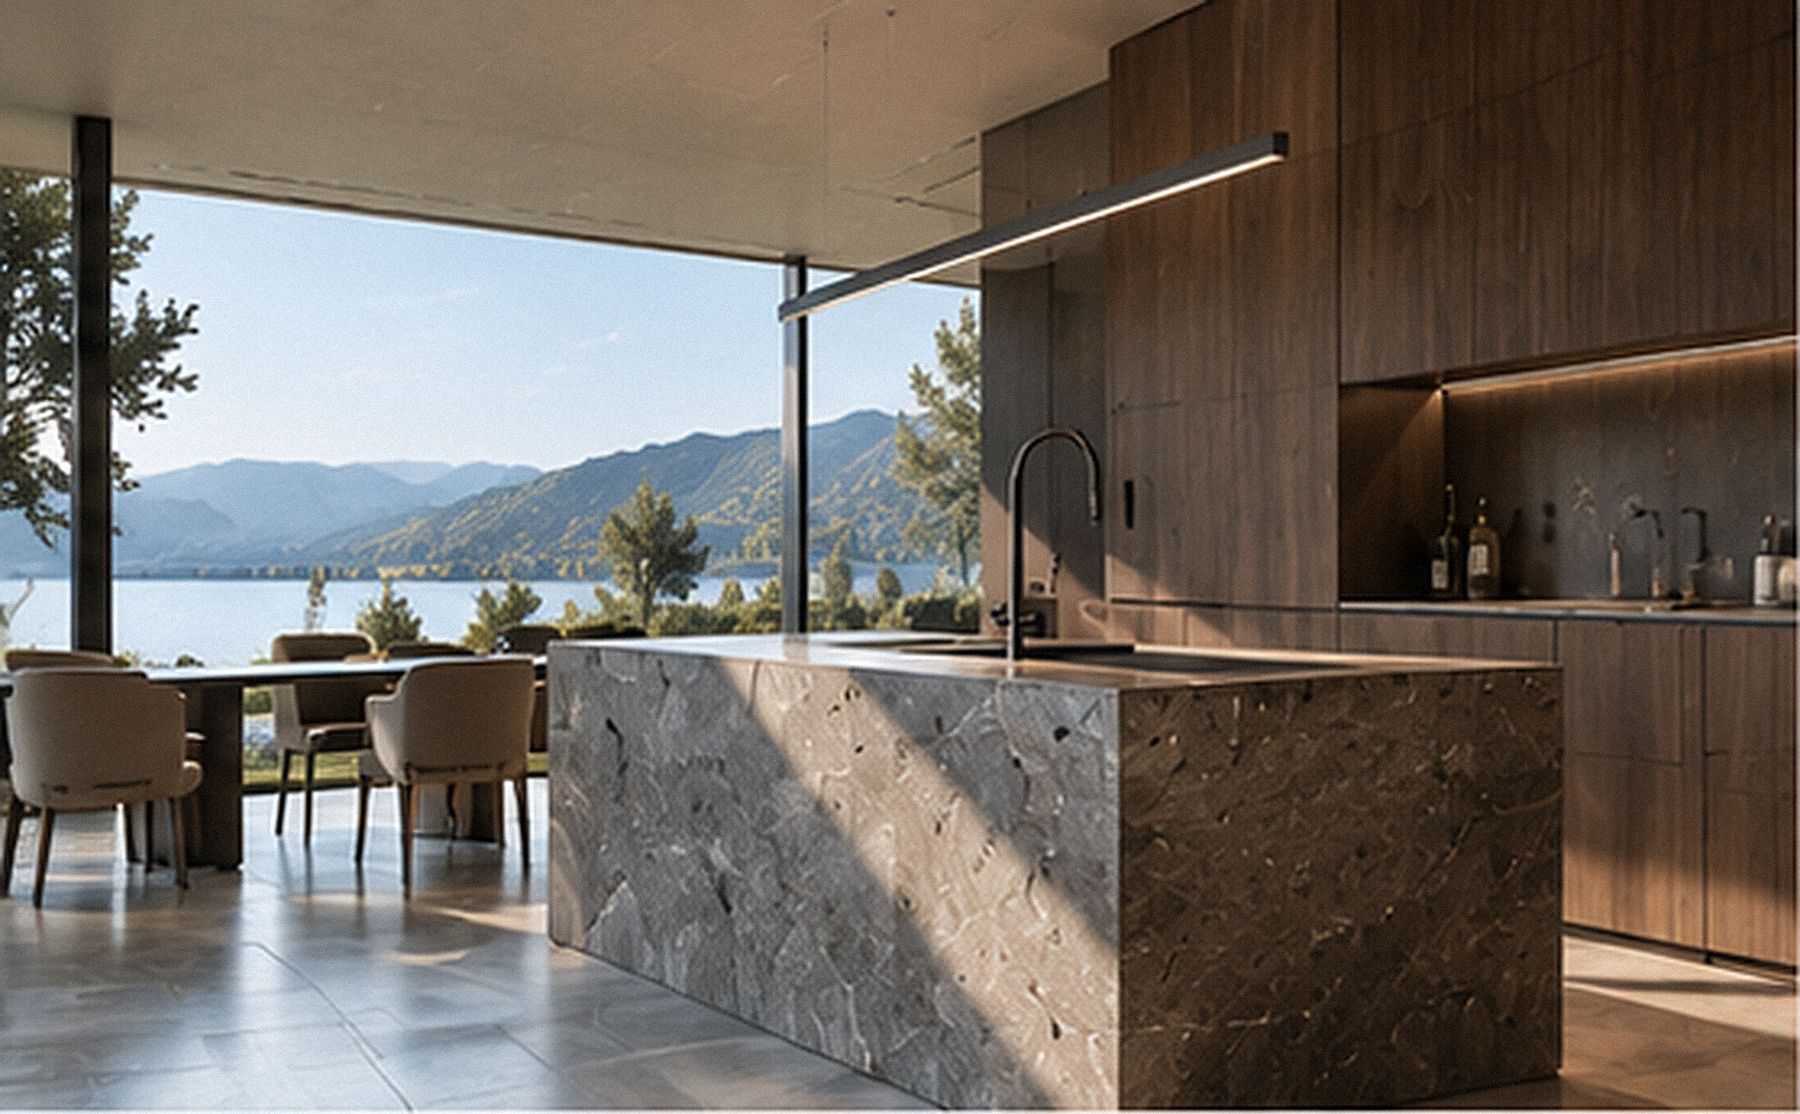
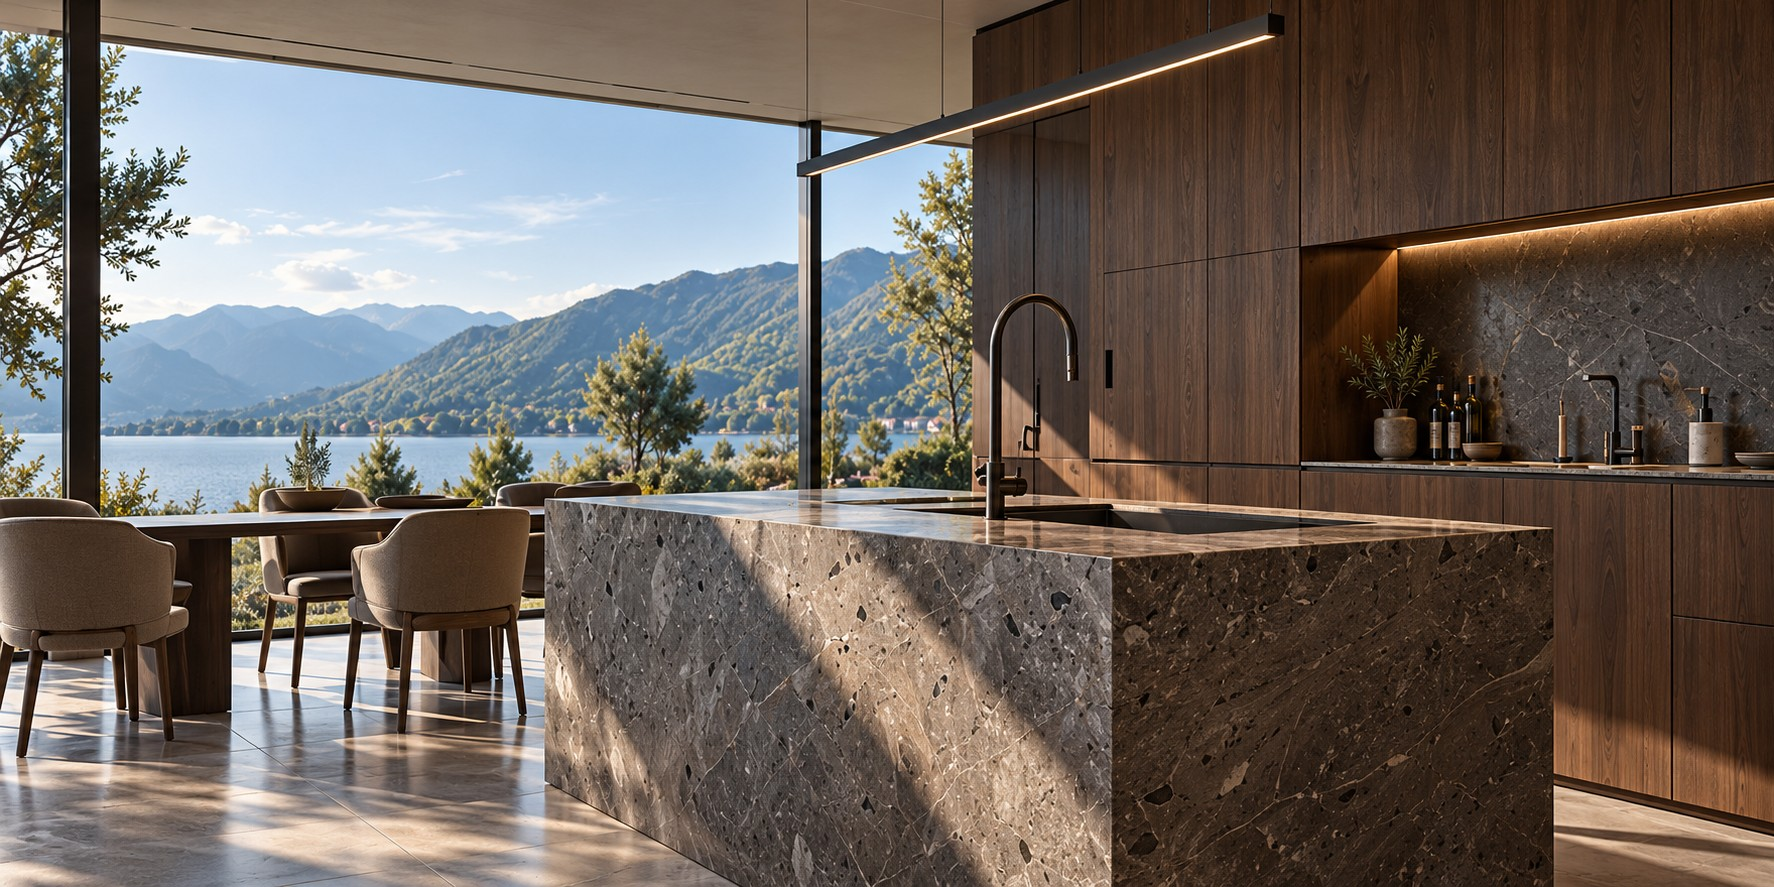
v5: new hero render, references Bellikon (villa) and Arosa (chalet), four projects on the homepage
Claude-Session: https://claude.ai/code/session_01K8soahvFYkw6QoZUie9XcJ

diff --git a/src/content/site.ts b/src/content/site.ts
@@ -67,7 +67,7 @@ export const images: Record<string, ImageAsset> = Object.fromEntries(
   [
     /* Hero and atmosphere */
     img("showroom-axo", { status: "CONCEPT_IMAGE", src: "/images/showroom-axo.jpg", w: 1774, h: 887, surface: "cocoa", alt: { de: "Axonometrie des SARTO Showrooms: Eingang, Project Lounge, Ankleide, zwei Küchen, Innenhof", en: "Axonometric view of the SARTO showroom: entrance, project lounge, dressing room, two kitchens, courtyard" }, brief: "Showroom visual based on the POSTARCH plan. Labelled as visual." }),
-    concept("hero-kitchen", 1800, 1114, "walnut-dark", "Küche aus dunklem Nussbaum mit Natursteininsel, Blick auf See und Berge", "Dark walnut kitchen with a natural stone island, view across lake and mountains"),
+    concept("hero-kitchen", 1774, 887, "walnut-dark", "Küche aus dunklem Nussbaum mit Natursteininsel, Blick auf See und Berge", "Dark walnut kitchen with a natural stone island, view across lake and mountains", "Hero render (GH, 19.10.2026). Labelled as visual until the first finished SARTO space is photographed."),
     concept("kitchen-light", 1500, 778, "walnut", "Küche mit Steininsel und Nussbaumfronten im Tageslicht", "Kitchen with stone island and walnut fronts in daylight"),
     concept("wardrobe", 1400, 1155, "cocoa", "Begehbare Ankleide aus Nussbaum mit beleuchteten Fächern und Insel", "Walk-in walnut dressing room with lit compartments and island"),
     concept("wardrobe-alt", 1300, 866, "cocoa", "Ankleide mit offenen Regalen und Mittelinsel", "Dressing room with open shelving and central island"),
@@ -121,6 +121,29 @@ export const images: Record<string, ImageAsset> = Object.fromEntries(
     real("grenchen-16", 1600, 1066, "stone-light", "Grenchen: Bad mit Wanne und Waschtisch", "Grenchen: bathroom with bath and vanity"),
     real("grenchen-12", 1600, 1066, "ivory", "Grenchen: Treppe in der Wohnung", "Grenchen: staircase within the apartment"),
 
+    /* Reference: Bellikon AG (villa) */
+    real("bellikon-kitchen", 1600, 1239, "stone-light", "Bellikon: Küche in Schwarz mit heller Steininsel", "Bellikon: black kitchen with light stone island"),
+    real("bellikon-wine", 1600, 1095, "walnut-dark", "Bellikon: Weinkeller mit Flaschenwand aus Schwarzstahl", "Bellikon: wine cellar with blackened-steel bottle wall"),
+    real("bellikon-glass", 1600, 1204, "walnut", "Bellikon: Ankleide mit Glastüren und beleuchteten Fächern", "Bellikon: dressing room with glass doors and lit compartments"),
+    real("bellikon-hall", 1204, 1600, "stone-light", "Bellikon: Korridor mit raumhohen Türen in dunklem Holz", "Bellikon: corridor with full-height doors in dark wood"),
+    real("bellikon-vanity", 1600, 1209, "stone-light", "Bellikon: Doppelwaschtisch mit Spiegelwand", "Bellikon: double vanity with mirror wall"),
+    real("bellikon-shelves", 1600, 1570, "stone-light", "Bellikon: beleuchtetes Regal im Eingang", "Bellikon: lit shelving in the entrance"),
+    real("bellikon-living", 1600, 973, "ivory", "Bellikon: Wohnraum mit Bibliothekswand", "Bellikon: living room with library wall"),
+    real("bellikon-gallery", 1600, 1067, "ivory", "Bellikon: Galerie im Korridor mit flächenbündigen Türen", "Bellikon: gallery corridor with flush doors"),
+    real("bellikon-entrance", 1600, 1207, "stone-light", "Bellikon: Eingang mit Spiegel und Garderobe", "Bellikon: entrance with mirror and wardrobe"),
+    real("bellikon-dusk", 1600, 1231, "stone", "Bellikon: die Villa am Abend", "Bellikon: the villa at dusk"),
+
+    /* Reference: Arosa GR (chalet apartment) */
+    real("arosa-kitchen", 1280, 999, "ivory", "Arosa: Küche mit Steinabdeckung und Weinkühlschrank", "Arosa: kitchen with stone worktop and wine fridge"),
+    real("arosa-wardrobe", 1280, 891, "ivory", "Arosa: begehbare Ankleide mit beleuchteten Fächern", "Arosa: walk-in dressing room with lit compartments"),
+    real("arosa-door", 1280, 876, "ivory", "Arosa: Eingang mit Türrahmen aus Altholz", "Arosa: entrance with reclaimed-wood door frame"),
+    real("arosa-bedroom", 1280, 853, "ivory", "Arosa: Schlafzimmer mit Schrankwand und Bettnischen", "Arosa: bedroom with wardrobe wall and bed niches"),
+    real("arosa-bath", 1280, 964, "stone-light", "Arosa: Bad mit freistehender Wanne unter dem Dach", "Arosa: bathroom with freestanding bath under the roof"),
+    real("arosa-vanity", 853, 1280, "stone-light", "Arosa: Waschtischmöbel und Dusche", "Arosa: vanity unit and shower"),
+    real("arosa-living", 1280, 853, "ivory", "Arosa: Wohnraum mit Kamin und Esstisch", "Arosa: living room with fireplace and dining table"),
+    real("arosa-balcony", 1280, 853, "ivory", "Arosa: Sitznische am Fenster mit Blick auf die Berge", "Arosa: window seat with mountain view"),
+    real("arosa-house", 1280, 964, "stone", "Arosa: das Haus im Winter", "Arosa: the house in winter"),
+
     /* Group projects (smzh Real Estate Advisory). Remote, credited. */
     img("group-kuesnacht-hide", { status: "REAL", src: "https://cms.smzh.ch/uploads/kusnacht_hide_6_978f160c20.jpg", w: 1600, h: 1067, surface: "stone-light", alt: { de: "Küsnacht ZH, HIDE: Schlafzimmer mit Terrasse", en: "Küsnacht ZH, HIDE: bedroom with terrace" }, credit: GROUP_CREDIT, brief: "Private residence example. Group project; not an executed SARTO interior." }),
     img("group-killwangen", { status: "REAL", src: "https://cms.smzh.ch/uploads/Aussenansicht_der_fertigen_Ueberbauung_36773d3b2e.jpg", w: 1600, h: 1067, surface: "stone", alt: { de: "Killwangen AG: zwei Mehrfamilienhäuser", en: "Killwangen AG: two apartment buildings" }, credit: GROUP_CREDIT, brief: "Residential development example. Group project." }),
@@ -143,6 +166,78 @@ export const images: Record<string, ImageAsset> = Object.fromEntries(
  * Never invent a client name.
  */
 export const projects: Project[] = [
+  {
+    id: "bellikon",
+    slug: { de: "bellikon", en: "bellikon" },
+    verification: "pending",
+    title: { de: "Bellikon", en: "Bellikon" },
+    category: "interiors",
+    type: { de: "Villa", en: "Private villa" },
+    location: { de: "Aargau", en: "Aargau" },
+    image: "bellikon-kitchen",
+    gallery: ["bellikon-kitchen", "bellikon-wine", "bellikon-glass", "bellikon-hall", "bellikon-vanity", "bellikon-shelves", "bellikon-living", "bellikon-gallery", "bellikon-entrance", "bellikon-dusk"],
+    teaser: { de: "Küche, Weinkeller, Ankleide mit Glastüren, raumhohe Türen und Bibliothekswand in einer Villa.", en: "Kitchen, wine cellar, glass-door dressing room, full-height doors and library wall in a private villa." },
+    intro: {
+      de: [
+        "In Bellikon wurde eine Villa durchgehend ausgebaut: schwarze Küche mit heller Steininsel, Weinkeller mit Flaschenwand aus Schwarzstahl, Ankleide hinter Glastüren mit beleuchteten Fächern.",
+        "Raumhohe Türen in dunklem Holz laufen mit den Wandflächen in einer Flucht. Im Wohnraum eine Bibliothekswand, im Bad ein Doppelwaschtisch vor der Spiegelwand, im Eingang Garderobe und beleuchtetes Regal.",
+      ],
+      en: [
+        "In Bellikon a private villa was fitted out throughout: a black kitchen with a light stone island, a wine cellar with a blackened-steel bottle wall, a dressing room behind glass doors with lit compartments.",
+        "Full-height doors in dark wood run flush with the wall surfaces. A library wall in the living room, a double vanity in front of the mirror wall, a wardrobe and lit shelving in the entrance.",
+      ],
+    },
+    facts: {
+      de: [
+        { label: "Leistungen", value: "Küche, Weinkeller, Ankleide, Türen, Einbauten, Badmöbel" },
+        { label: "Objekt", value: "Villa" },
+        { label: "Fertigung", value: "Limani" },
+        { label: "Jahr", value: "TO_VERIFY" },
+      ],
+      en: [
+        { label: "Scope", value: "Kitchen, wine cellar, dressing room, doors, built-ins, bathroom furniture" },
+        { label: "Building", value: "Private villa" },
+        { label: "Manufacturing", value: "Limani" },
+        { label: "Year", value: "TO_VERIFY" },
+      ],
+    },
+  },
+  {
+    id: "arosa",
+    slug: { de: "arosa", en: "arosa" },
+    verification: "pending",
+    title: { de: "Arosa", en: "Arosa" },
+    category: "wardrobes",
+    type: { de: "Chalet-Wohnung", en: "Chalet apartment" },
+    location: { de: "Graubünden", en: "Graubünden" },
+    image: "arosa-wardrobe",
+    gallery: ["arosa-wardrobe", "arosa-kitchen", "arosa-door", "arosa-bedroom", "arosa-bath", "arosa-vanity", "arosa-living", "arosa-balcony", "arosa-house"],
+    teaser: { de: "Begehbare Ankleide, Küche, Schrankwände und Badmöbel in einer Dachwohnung mit Altholz.", en: "Walk-in dressing room, kitchen, wardrobe walls and bathroom furniture in an attic apartment with reclaimed wood." },
+    intro: {
+      de: [
+        "Unter dem Dach eines Chalets in Arosa wurden Ankleide, Küche, Schlafzimmer und Bäder auf Mass ausgebaut. Altholz am Eingang, helles Holz an den Einbauten, Stein in Küche und Bad.",
+        "Die begehbare Ankleide arbeitet mit beleuchteten Fächern und offener Kleiderstange. Im Schlafzimmer fasst eine Schrankwand die Betten; unter der Schräge sitzt die freistehende Wanne.",
+      ],
+      en: [
+        "Under the roof of a chalet in Arosa, dressing room, kitchen, bedrooms and bathrooms were fitted out to measure. Reclaimed wood at the entrance, light wood on the built-ins, stone in kitchen and bath.",
+        "The walk-in dressing room works with lit compartments and an open rail. In the bedroom a wardrobe wall frames the beds; the freestanding bath sits under the slope.",
+      ],
+    },
+    facts: {
+      de: [
+        { label: "Leistungen", value: "Ankleide, Küche, Schrankwände, Türen, Badmöbel" },
+        { label: "Objekt", value: "Chalet-Wohnung" },
+        { label: "Fertigung", value: "Limani" },
+        { label: "Jahr", value: "TO_VERIFY" },
+      ],
+      en: [
+        { label: "Scope", value: "Dressing room, kitchen, wardrobe walls, doors, bathroom furniture" },
+        { label: "Building", value: "Chalet apartment" },
+        { label: "Manufacturing", value: "Limani" },
+        { label: "Year", value: "TO_VERIFY" },
+      ],
+    },
+  },
   {
     id: "obermumpf",
     slug: { de: "obermumpf", en: "obermumpf" },

diff --git a/src/components/sections/Shared.tsx b/src/components/sections/Shared.tsx
@@ -127,8 +127,9 @@ export function ProjectCards({ locale, limit, items }: { locale: Locale; limit?:
   return (
     <ul className="grid gap-x-8 gap-y-14 md:grid-cols-12">
       {list.map((p, i) => {
-        const wide = i % 3 === 0;
-        const col = wide ? "md:col-span-7" : i % 3 === 1 ? "md:col-span-5 md:pt-24" : "md:col-span-6 md:col-start-4";
+        const k = i % 4;
+        const wide = k === 0;
+        const col = k === 0 ? "md:col-span-7" : k === 1 ? "md:col-span-5 md:pt-24" : k === 2 ? "md:col-span-5 md:col-start-2" : "md:col-span-6 md:col-start-7 md:pt-24";
         return (
           <Reveal as="li" key={p.id} delay={i * 80} className={col}>
             <article>

diff --git a/src/content/de.ts b/src/content/de.ts
@@ -141,7 +141,7 @@ export const de: Dictionary = {
   projects: {
     eyebrow: "Projekte",
     headline: "Räume mit Handschrift.",
-    intro: "Ausgeführte Arbeiten in Wohnüberbauungen und Mehrfamilienhäusern: Küchen, Einbauschränke und Badmöbel, gefertigt bei Limani. Konkret, architektonisch, ohne Inszenierung.",
+    intro: "Ausgeführte Arbeiten in Villen, Chalets und Wohnüberbauungen: Küchen, Ankleiden, Weinkeller, Türen, Einbauten und Badmöbel, gefertigt bei Limani. Konkret, architektonisch, ohne Inszenierung.",
     note: "Weitere Referenzen werden dokumentiert. Konzeptstudien sind als solche bezeichnet.",
     filters: {
       residences: "Wohnbauten",

diff --git a/src/content/en.ts b/src/content/en.ts
@@ -139,7 +139,7 @@ export const en: Dictionary = {
   projects: {
     eyebrow: "Projects",
     headline: "Spaces with character.",
-    intro: "Executed work in residential developments and apartment buildings: kitchens, fitted wardrobes and bathroom furniture, made by Limani. Concrete, architectural, unstaged.",
+    intro: "Executed work in private villas, chalets and residential developments: kitchens, dressing rooms, wine cellars, doors, built-ins and bathroom furniture, made by Limani. Concrete, architectural, unstaged.",
     note: "Further references are being documented. Concept studies are labelled as such.",
     filters: {
       residences: "Residential",

diff --git a/src/app/[locale]/page.tsx b/src/app/[locale]/page.tsx
@@ -49,7 +49,7 @@ export default async function HomePage({ params }: { params: Promise<{ locale: s
               ))}
             </div>
           </Reveal>
-          <ProjectCards locale={locale} limit={3} />
+          <ProjectCards locale={locale} limit={4} />
           <div className="mt-14 flex flex-wrap items-center justify-between gap-6">
             <Action href={href(locale, "projects")}>{h.work.cta}</Action>
             <p className="max-w-md text-[0.8125rem] text-charcoal/55">{h.work.note}</p>

diff --git a/MISSING_ASSETS.md b/MISSING_ASSETS.md
@@ -11,7 +11,7 @@ Everything below is marked in the code as `TO_VERIFY`, `CONCEPT_IMAGE` or `REAL_
 | Contact email | contact@sarto-interiors.ch (stated as «contact@sarto…» by GH; domain assumed, mailbox must exist before launch) | `site.ts → contact.email` |
 | Domains | sarto-interiors.ch (primary), sarto-interiors.com, sartointeriors.ch, sartoliving.ch → 308 to .ch. DNS at Hostpoint still to be set (A 76.76.21.21, CNAME www → cname.vercel-dns.com). | Vercel project |
 | Showroom plan | POSTARCH proposal design, 24 pages, dated 14.10.2026. Zones, areas, materials and appliance partners on the Showroom page come from this plan. | `showroom.zones`, `public/images/showroom-plan.jpg` |
-| Reference photography | Obermumpf AG, Gersau SZ, Grenchen SO (Liegenschaftsfotos, 19.10.2026). 25 photographs selected and lightly colour-graded. | `public/images/projects/*`, `site.ts → projects` |
+| Reference photography | Obermumpf AG, Gersau SZ, Grenchen SO (Liegenschaftsfotos, 19.10.2026): 25 photographs. Bellikon AG (villa) and Arosa GR (chalet apartment), 19.10.2026: 19 photographs (WhatsApp quality, 1280–1600 px; originals requested). All lightly colour-graded. | `public/images/projects/*`, `site.ts → projects` |
 | Concept visuals | 22 tiles from the two SARTO moodboards, upscaled 2–3× (soft at full width). Labelled «Visualisierung» on the site. | `public/images/concept/*` |
 
 ## Blocking before public launch
@@ -23,7 +23,7 @@ Everything below is marked in the code as `TO_VERIFY`, `CONCEPT_IMAGE` or `REAL_
 | 3 | **Mailbox contact@sarto-interiors.ch** and a phone number. | `site.ts → contact` | SARTO |
 | 4 | **Contact form delivery**: Resend account, verified sender domain, then set `RESEND_API_KEY`, `ENQUIRY_TO`, `ENQUIRY_FROM` on Vercel. Until then the form shows an error with the direct email (no false success). | `api/enquiry/route.ts`, Vercel env | Tech |
 | 5 | **Privacy notice (DSG)** once hosting, form and analytics are decided. | `legal.privacy` | Legal |
-| 6 | **Reference sign-off by Limani**: for Obermumpf, Gersau, Grenchen confirm scope (kitchens, wardrobes, bathroom furniture), year, number of units, and that the developer/owner agrees to publication. Year fields currently `TO_VERIFY`. | `site.ts → projects` | Limani / Gzim |
+| 6 | **Reference sign-off by Limani**: for Bellikon, Arosa, Obermumpf, Gersau, Grenchen confirm scope, year, and that the owner agrees to publication. Bellikon and Arosa are private homes: owner consent is mandatory, and the exterior shots (`bellikon-dusk`, `arosa-house`) should be dropped if the owner wants no identifiable building. Scope on Bellikon/Arosa (wine cellar, doors, glass dressing room, sauna not shown) is my reading of the photos, not confirmed. Year fields currently `TO_VERIFY`. | `site.ts → projects` | Limani / Gzim |
 | 7 | **Operational promises** marked `// OP` in `de.ts` / `en.ts` (veneer laid by picture, inspection before dispatch, agreed dates, series production for developers). | content | Limani |
 | 8 | **Role model sign-off**: which design and coordination services SARTO delivers itself, which through partners (Crafted by us / Designed with us / Delivered together). Role tags on the six service areas are a proposal. | `expertise.areas` | Gzim |
 | 9 | **Group project images on the Developers page** (Küsnacht HIDE, Killwangen, Bremgarten) are loaded from cms.smzh.ch and credited «Projekt der Gruppe · smzh Real Estate Advisory». Confirm this framing or replace with SARTO references. | `site.ts → images group-*` | Gzim |
@@ -35,7 +35,7 @@ Everything below is marked in the code as `TO_VERIFY`, `CONCEPT_IMAGE` or `REAL_
 |---|---|---|
 | `workshop-wide` | Limani workshop, people at work, natural light | landscape ≥ 2800 px |
 | `team` | Authentic team portrait in the workshop | 3:2 |
-| Hero | The first finished SARTO space in walnut/stone, photographed. Replaces the hero visual. | landscape ≥ 2800 px |
+| Hero | Render supplied by GH (19.10.2026, 1774 px, labelled «Visualisierung»). To be replaced by the first finished SARTO space in walnut/stone, photographed. | landscape ≥ 2800 px |
 | Concept visuals | Full-resolution renders (≥ 2400 px) for the 22 moodboard tiles currently upscaled from ~400 px. | — |
 
 ## Limani
